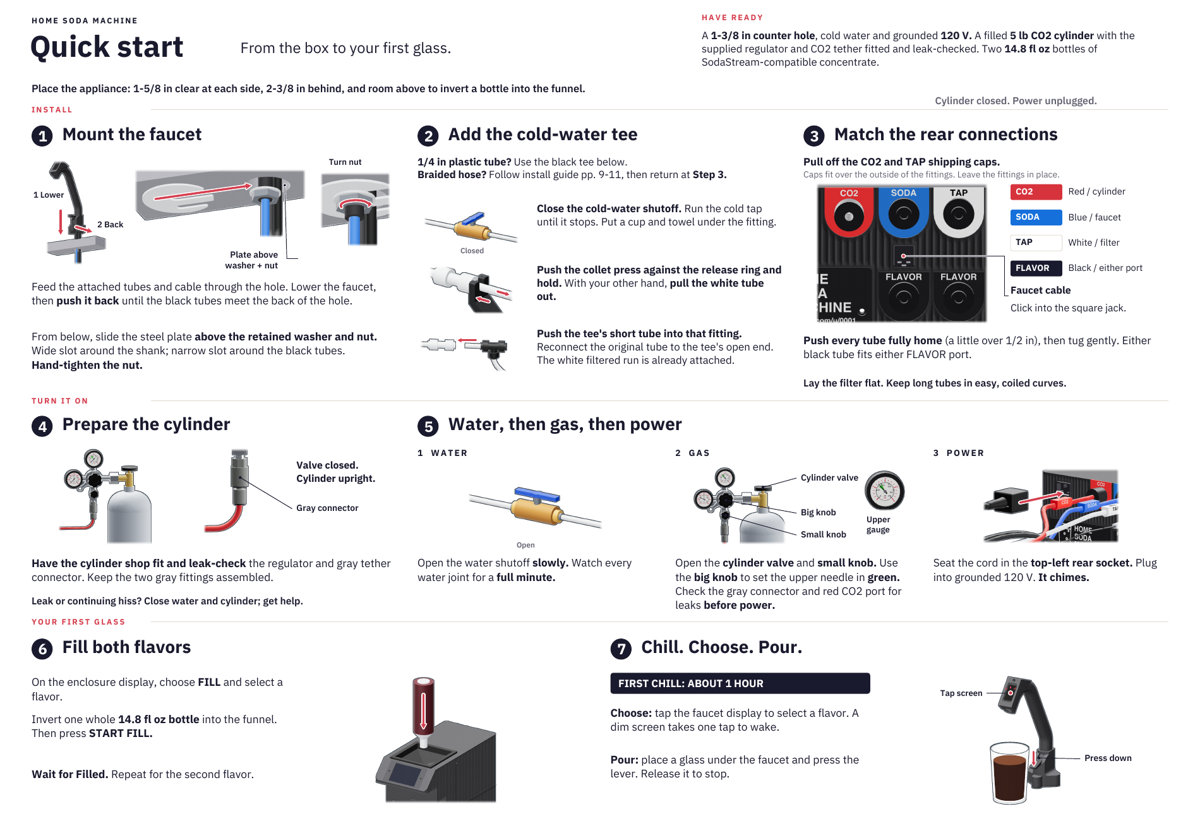
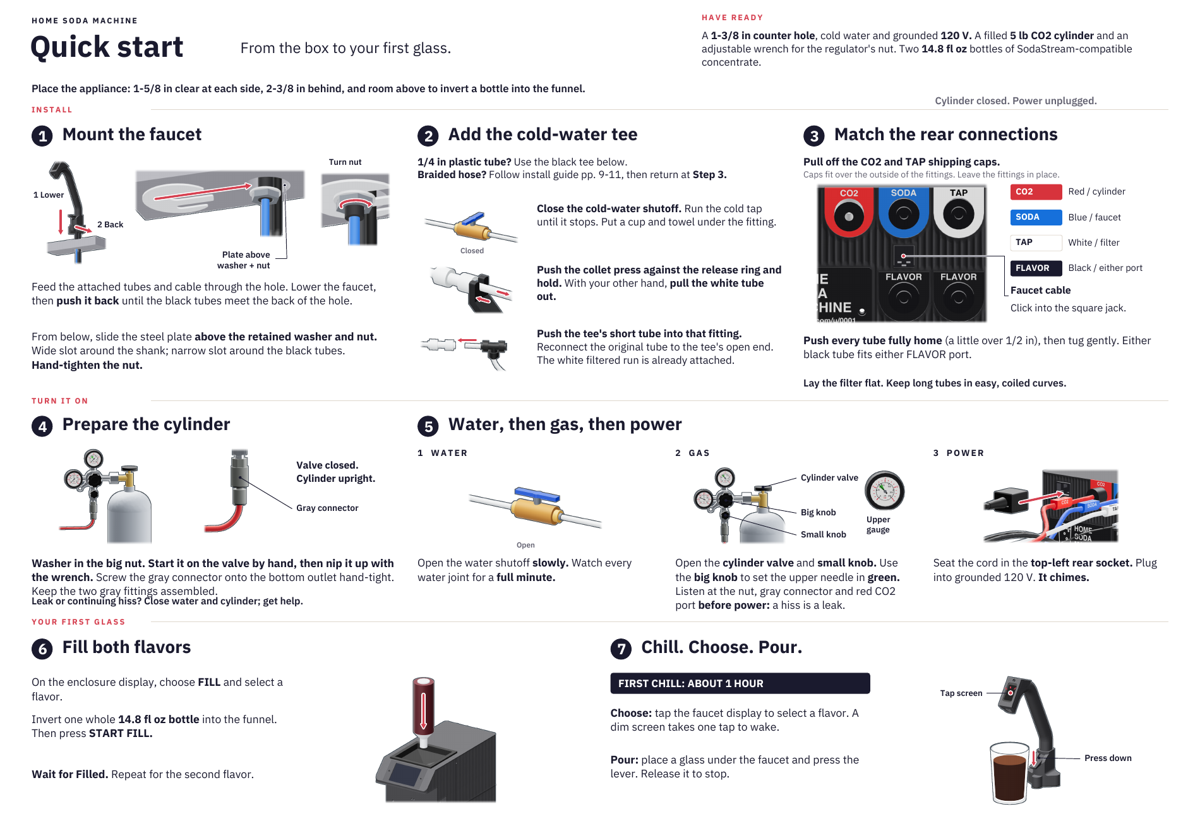
Turn the plate callout toward its caption

diff --git a/tools/quickstart-codex/build.py b/tools/quickstart-codex/build.py
@@ -173,7 +173,7 @@ label('HOME SODA MACHINE',36,20,color=INK,size=9)
 text('Quick start',34,38,34,'Bold')
 text('From the box to your first glass.',274,47,17)
 label('HAVE READY',800,16,color=CORAL,size=9)
-para('A <b>1-3/8 in counter hole</b>, cold water and grounded <b>120 V.</b> A filled <b>5 lb CO2 cylinder</b> with the supplied regulator and CO2 tether fitted and leak-checked. Two <b>14.8 fl oz</b> bottles of SodaStream-compatible concentrate.',800,33,532,12,15,limit=60)
+para('A <b>1-3/8 in counter hole</b>, cold water and grounded <b>120 V.</b> A filled <b>5 lb CO2 cylinder</b> and an adjustable wrench for the regulator\'s nut. Two <b>14.8 fl oz</b> bottles of SodaStream-compatible concentrate.',800,33,532,12,15,limit=60)
 text('Place the appliance: 1-5/8 in clear at each side, 2-3/8 in behind, and room above to invert a bottle into the funnel.',36,96,12,'Semibold')
 phase('INSTALL',121)
 text('Cylinder closed. Power unplugged.',1066,110,11.5,'Semibold',MUTED)
@@ -191,9 +191,9 @@ arrow(*p(295,405),*p(720,345),head=7)
 plate_gap=p(869,344)
 for row,caption in enumerate(['Plate above','washer + nut']):
     caption_width=pdfmetrics.stringWidth(caption,'Semibold',10)
-    text(caption,x+281-caption_width,286+row*12,10,'Semibold')
+    text(caption,x+272-caption_width,286+row*12,10,'Semibold')
 for color,width in [('#ffffff',2.2),(INK,.7)]:
-    line(x+304,295,x+291,295,color,width)
+    line(x+278,295,x+291,295,color,width)
     line(x+291,295,*plate_gap,color,width)
 c.setFillColor(HexColor(INK));c.setStrokeColor(white);c.setLineWidth(.65)
 c.circle(plate_gap[0],H-plate_gap[1],1.8,fill=1,stroke=1)
@@ -249,7 +249,7 @@ pic('cylinder-actions/co2-connected.png',x+2,522,167,108,crop=(80,0,1600,1500))
 p=pic('cylinder-actions/co2-connected.png',x+177,522,117,108,crop=(420,775,830,1335))
 para('<b>Valve closed.<br/>Cylinder upright.</b>',x+302,533,108,11.4,15,limit=60)
 leader('Gray connector',x+302,585,p(637,943),side='left')
-para('<b>Have the cylinder shop fit and leak-check</b> the regulator and gray tether connector. Keep the two gray fittings assembled.',x,644,416,12.6,16,limit=48)
+para('<b>Washer in the big nut. Start it on the valve by hand, then nip it up with the wrench.</b> Screw the gray connector onto the bottom outlet hand-tight. Keep the two gray fittings assembled.',x,644,416,12.6,16,limit=48)
 
 x=476
 step(5,'Water, then gas, then power',x,y)
@@ -269,7 +269,7 @@ text('gauge',x+218,610,9.5,'Semibold')
 leader('Cylinder valve',x+143,550,projected(p,(-115,0,33),*gas_pose),side='left')
 leader('Big knob',x+143,590,projected(p,(0,45,0),*gas_pose),side='left')
 leader('Small knob',x+143,615,projected(p,(0,27,-47),*gas_pose),side='left')
-para('Open the <b>cylinder valve</b> and <b>small knob.</b> Use the <b>big knob</b> to set the upper needle in <b>green.</b> Check the gray connector and red CO2 port for leaks <b>before power.</b>',x,644,268,12.4,16,limit=64)
+para('Open the <b>cylinder valve</b> and <b>small knob.</b> Use the <b>big knob</b> to set the upper needle in <b>green.</b> Listen at the nut, gray connector and red CO2 port <b>before power:</b> a hiss is a leak.',x,644,268,12.4,16,limit=64)
 x=starts[2]
 p=pic('insertion-actions/power-ready.png',x+5,545,258,84,crop=(0,160,1800,1140))
 arrow(*p(490.44,603.57),*p(1061.06,477.95),head=7)
